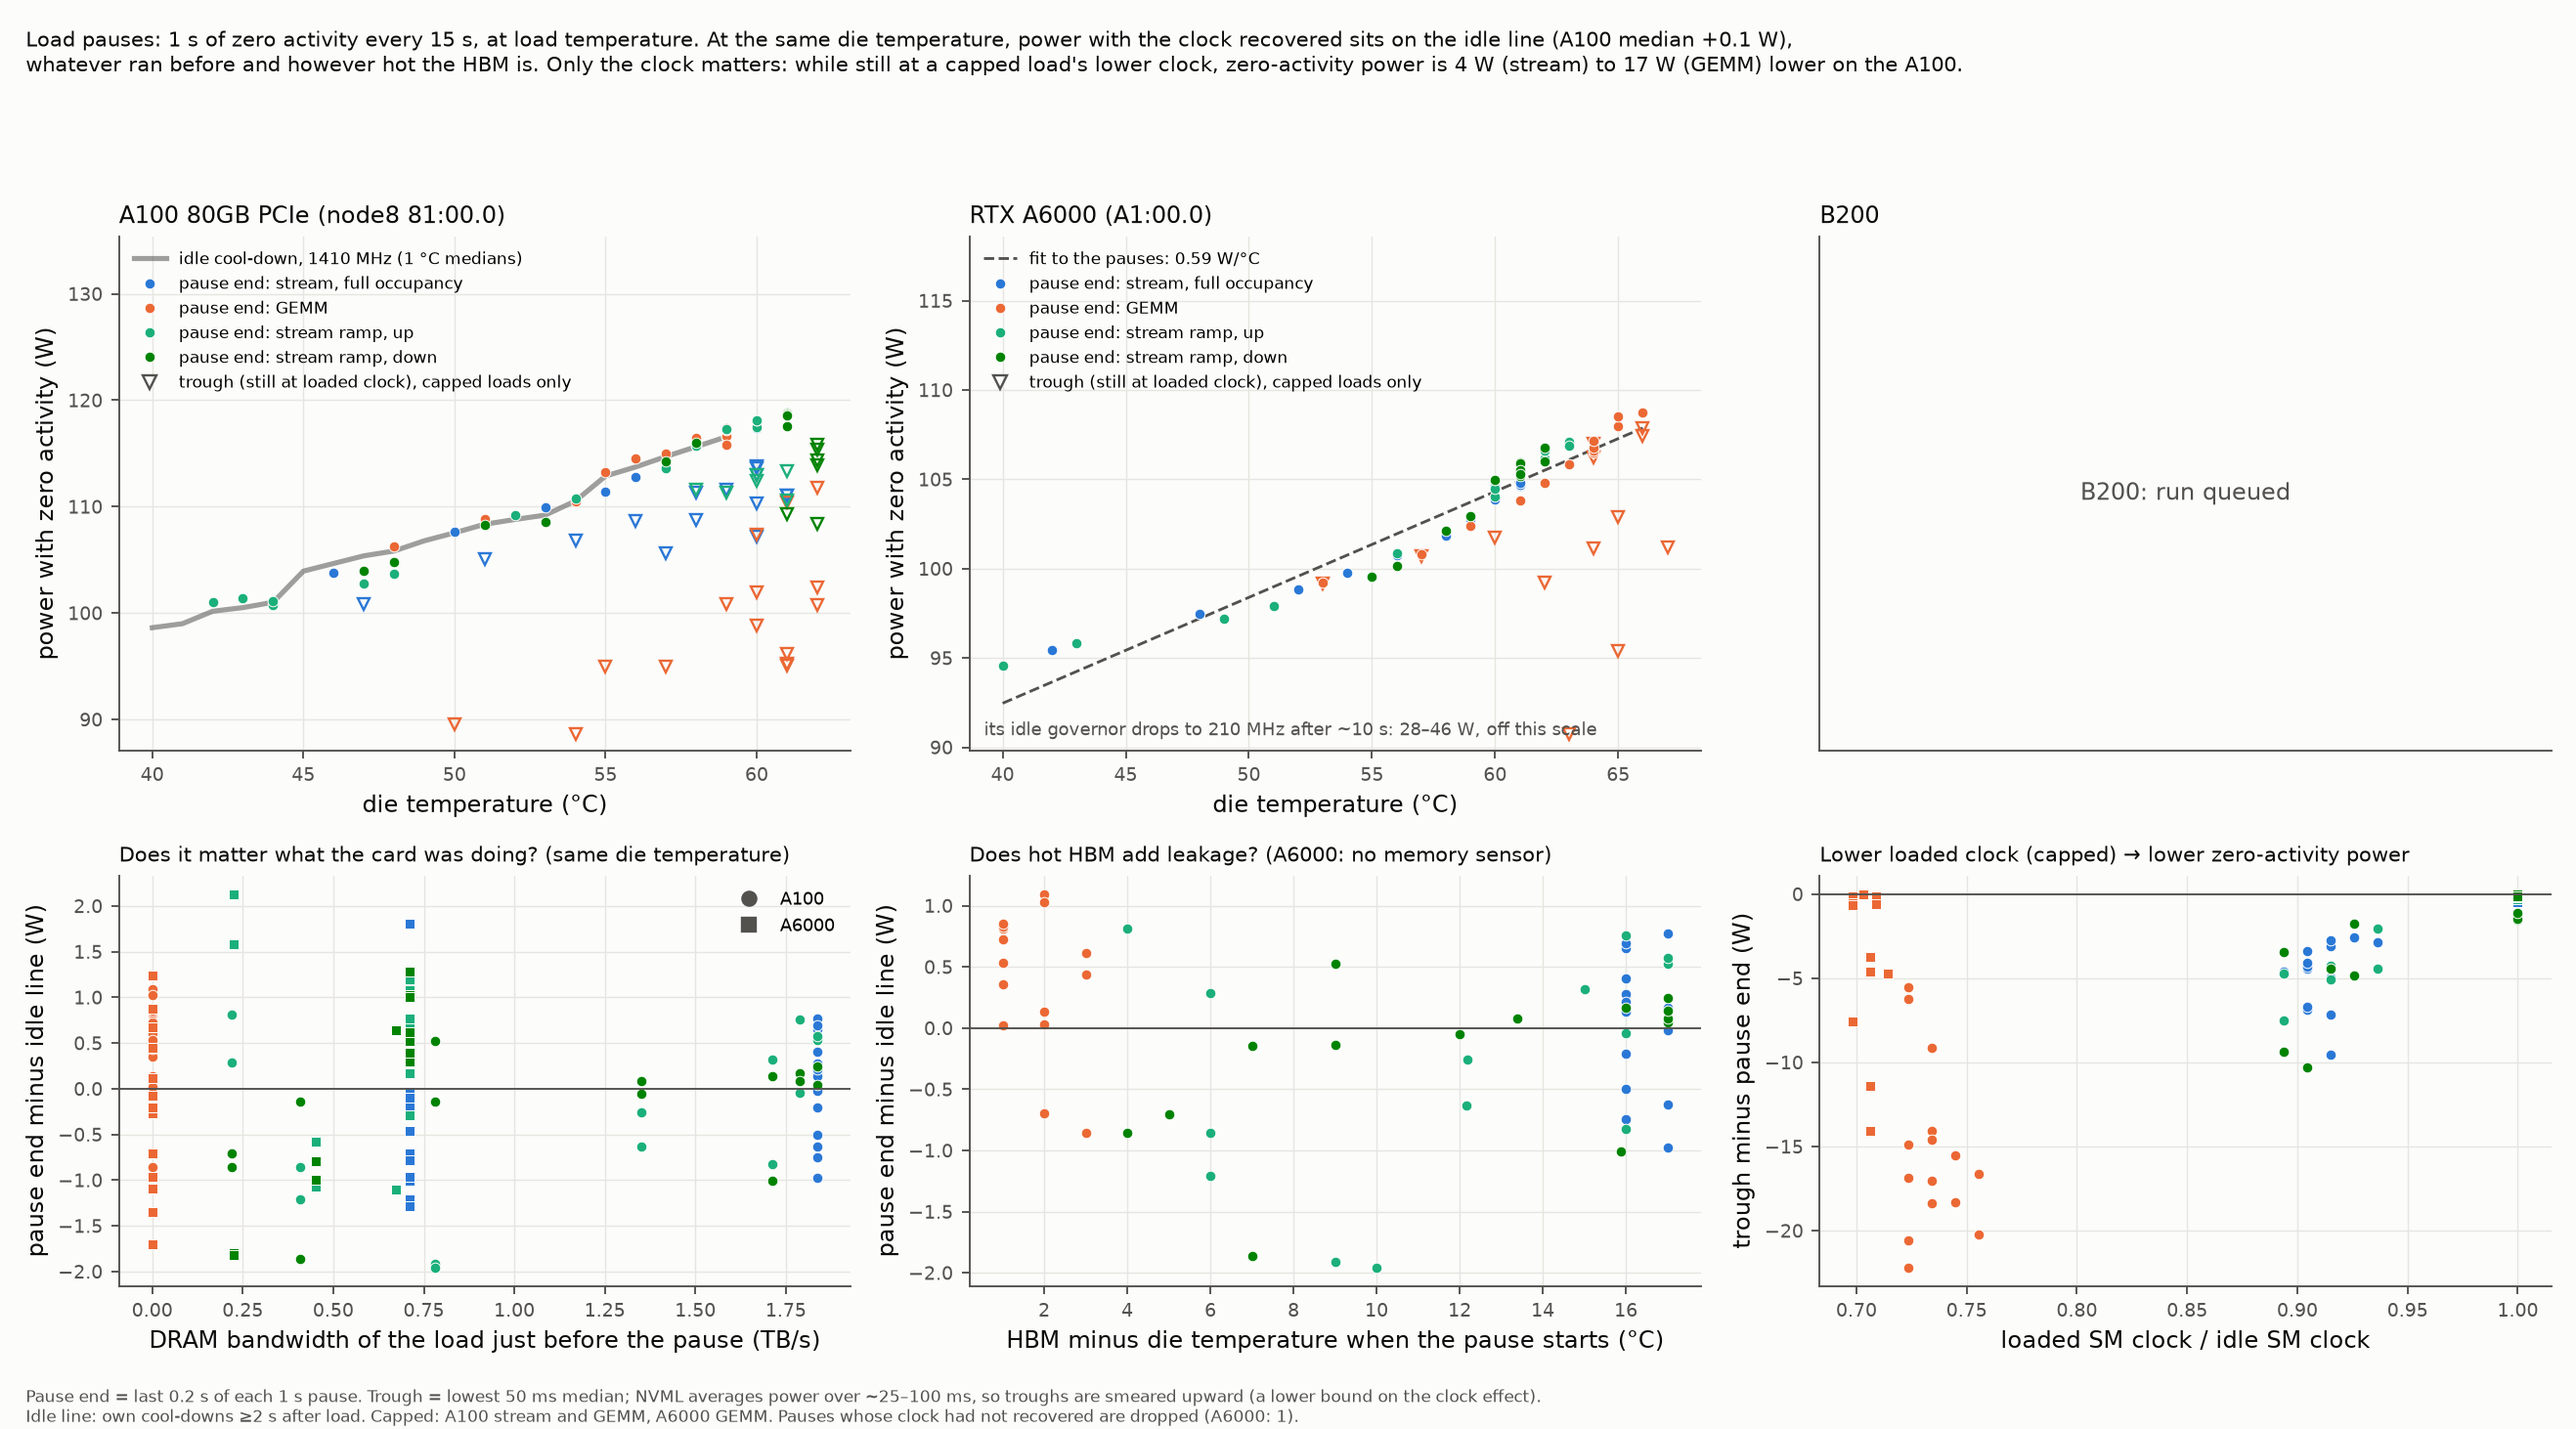
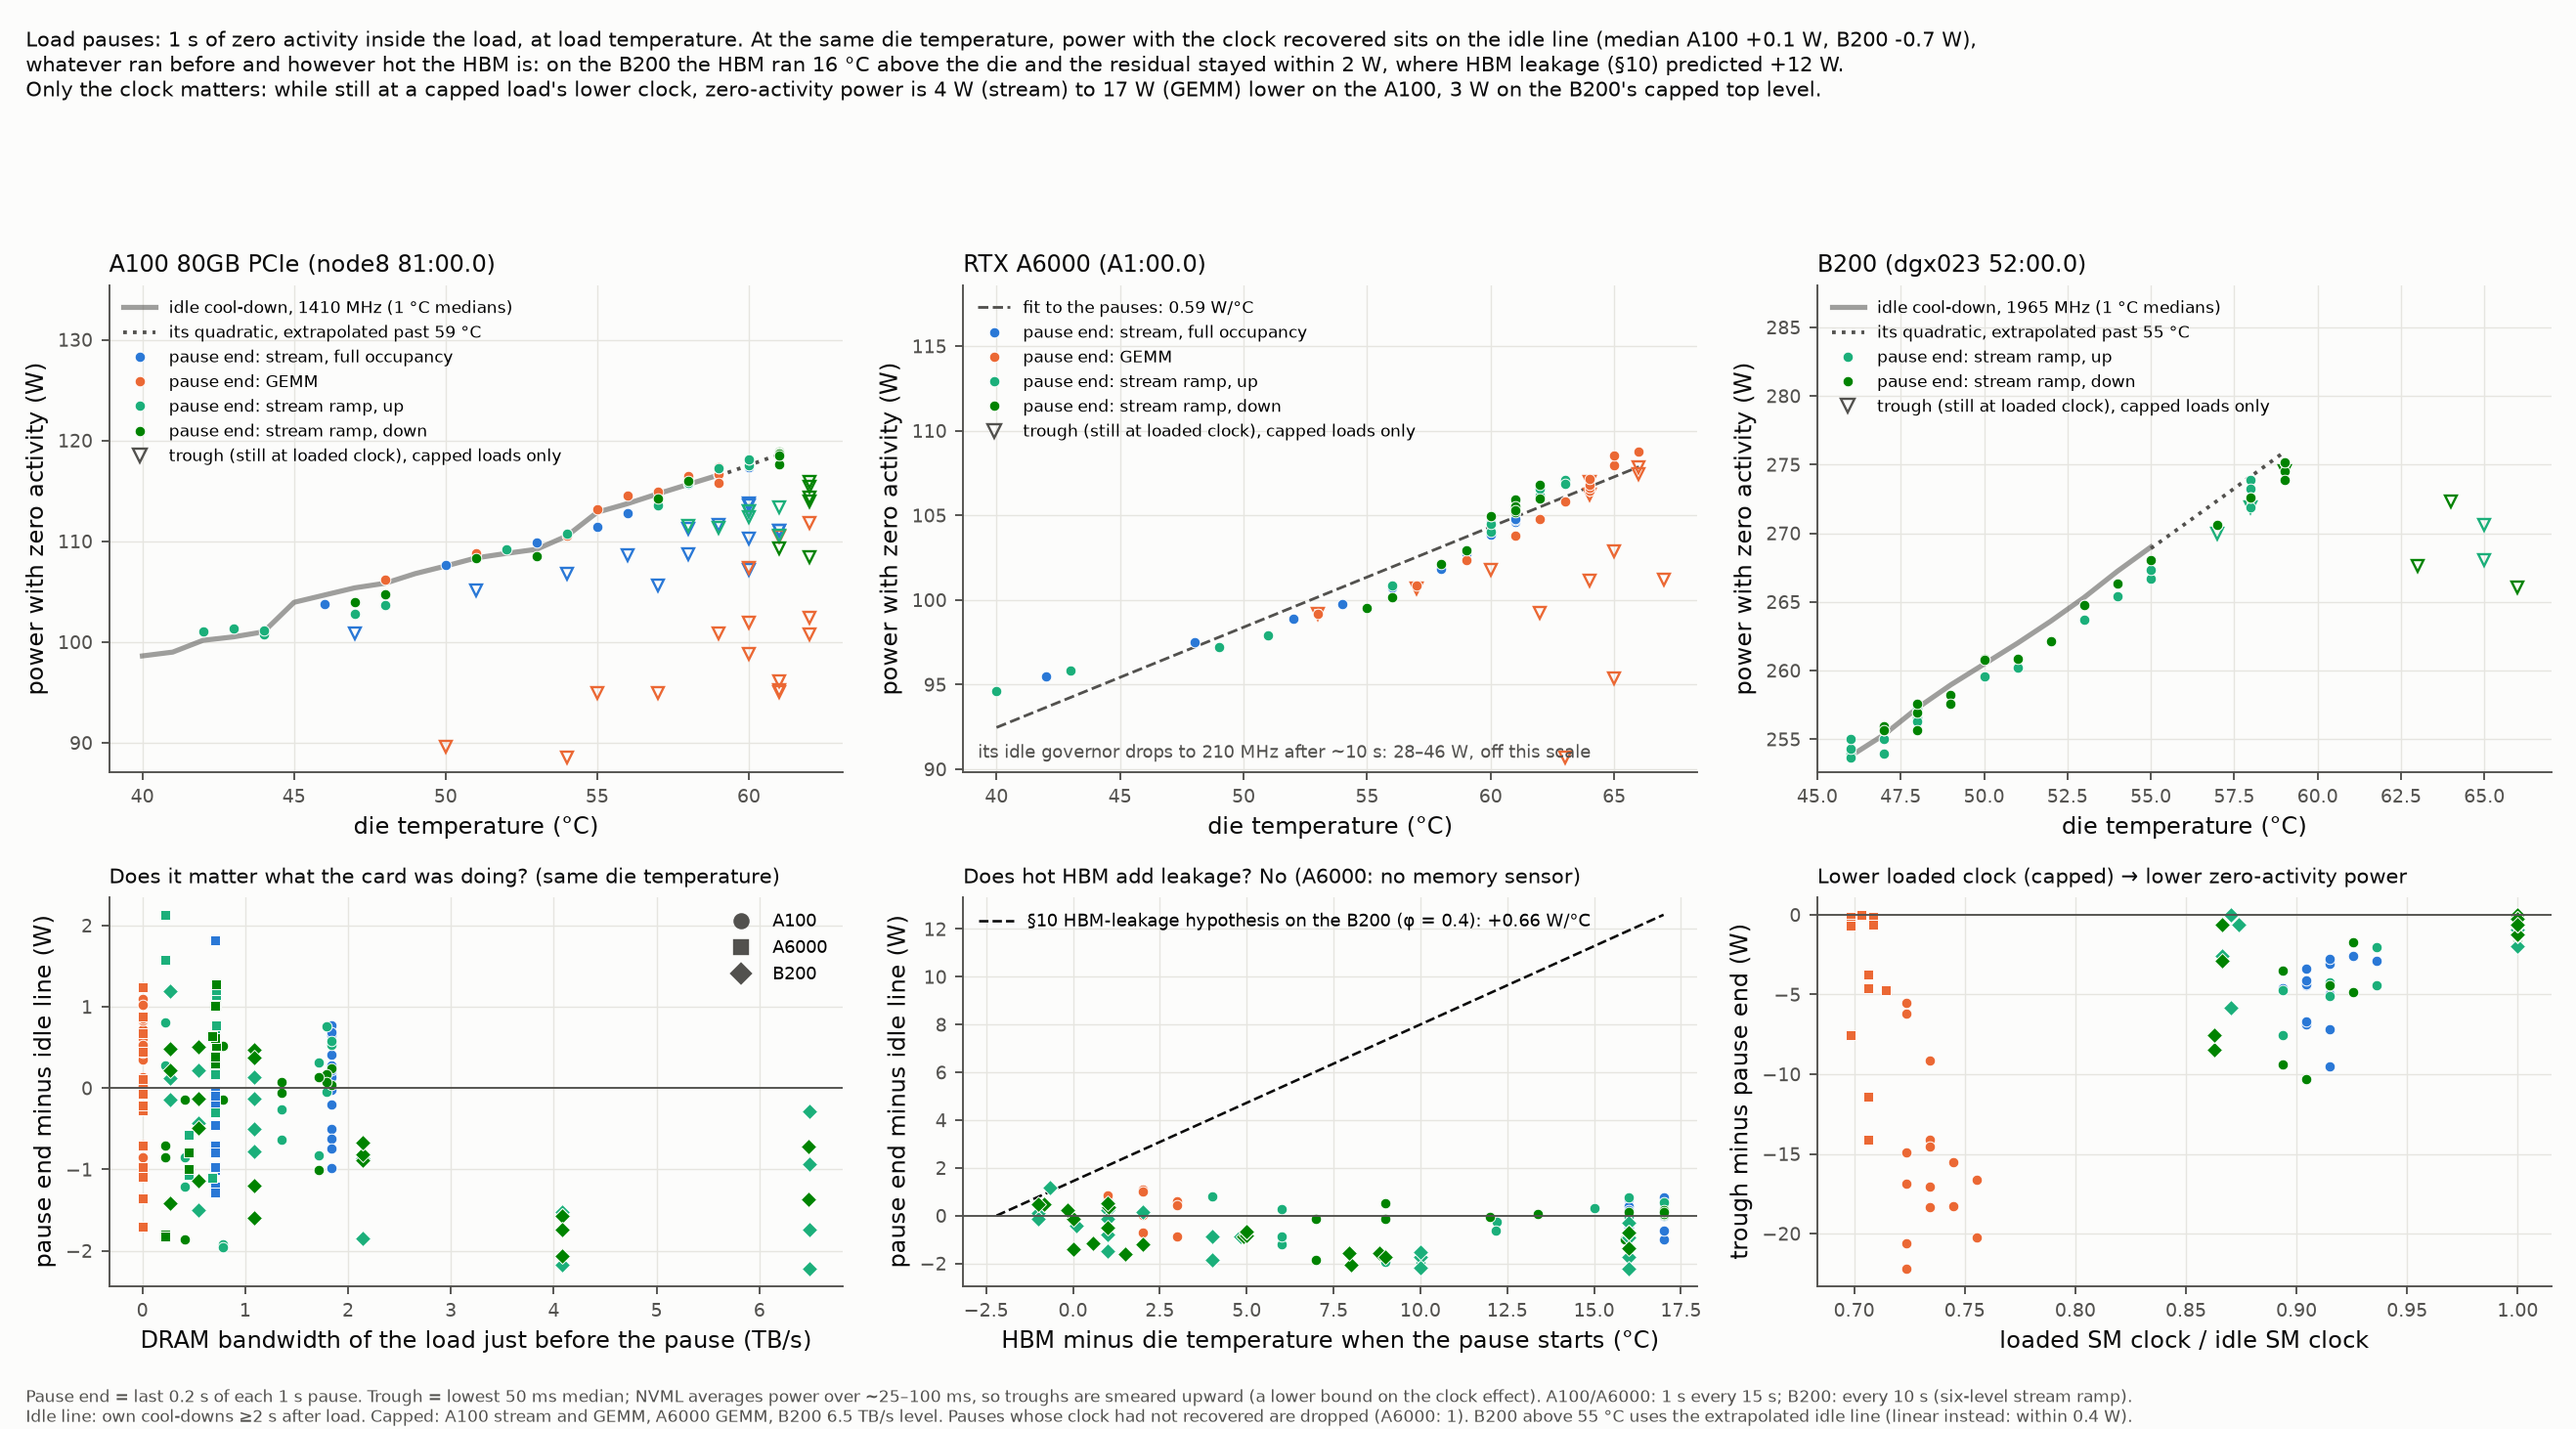
fig_pause: B200 column from thermal_B200_pulse; §12: HBM gap adds no static power (−0.08 W/°C vs +0.66 predicted by §10)
The B200 pause run lands in the cross-card pause figure. Pause end minus the card's own
cool-down idle line is median −0.7 W across a −1..+16 °C HBM−die gap; §10's φ = 0.4 would
put the top level 12 W above the line. Figure draws that prediction, extends the B200 idle
line past its 55 °C cool-down range (dotted), and adds the B200 to the headline and footer.

diff --git a/GPU_power/talk_figs/fig_pause.py b/GPU_power/talk_figs/fig_pause.py
@@ -1,7 +1,7 @@
 #!/usr/bin/env python3
 """Load-pause experiment (thermal_leakage.py pulse phases; THERMAL_IDLE.md §11).
 
-1 s pauses every 15 s inside long stream / GEMM loads and a stream ramp, sampled at 10 ms.
+1 s pauses every 15 s (B200: 10 s) inside long stream / GEMM loads and a stream ramp, sampled at 10 ms.
 Per pause (summary.json "pauses"):
   late   = last 0.2 s of the pause: zero activity, clock back at its idle level, die still hot
   trough = lowest 50 ms running median in the pause: zero activity while clock/voltage are
@@ -28,10 +28,10 @@ CAT = ["#2a78d6", "#eb6834", "#1baf7a", "#eda100", "#e87ba4", "#008300", "#6250d
 # (thermal dir, title); a missing dir leaves a placeholder panel
 RUNS = [("A100_pulse1", "A100 80GB PCIe (node8 81:00.0)"),
         ("A6000_pulse1", "RTX A6000 (A1:00.0)"),
-        ("B200_pulse1", "B200")]
+        ("B200_pulse", "B200 (dgx023 52:00.0)")]
 LOADS = [("pulse:stream", "stream, full occupancy", CAT[0]), ("pulse:gemm", "GEMM", CAT[1]),
          ("pulse_up", "stream ramp, up", CAT[2]), ("pulse_down", "stream ramp, down", CAT[5])]
-CARD_MK = {"A100_pulse1": "o", "A6000_pulse1": "s", "B200_pulse1": "D"}
+CARD_MK = {"A100_pulse1": "o", "A6000_pulse1": "s", "B200_pulse": "D"}
 
 
 def fnum(x):
@@ -153,6 +153,11 @@ def main():
         if r["ref_kind"].startswith("cool"):
             a.plot(r["bins"][:, 0], r["bins"][:, 1], "-", color=INK2, lw=2.2, alpha=0.55, zorder=1,
                    label=f"idle cool-down, {r['fidle']:.0f} MHz (1 °C medians)")
+            t_hi = max(x["t_late_c"] for x in r["pz"])
+            if t_hi > r["hi"] + 0.5:   # pauses run hotter than the cool-down reached: show the extrapolation
+                xs = np.linspace(r["hi"], t_hi, 10)
+                a.plot(xs, np.polyval(r["q"], xs), ":", color=INK2, lw=1.6, zorder=1,
+                       label=f"its quadratic, extrapolated past {r['hi']:.0f} °C")
         else:
             xs = np.linspace(r["lo"], r["hi"], 10)
             a.plot(xs, np.polyval(r["q"], xs), "--", color=INK2, lw=1.2, zorder=1,
@@ -199,9 +204,16 @@ def main():
             P = [x for x in r["pz"] if x["kind"] == k and x["mem_gap_c"] is not None]
             a.plot([x["mem_gap_c"] for x in P], [x["res_w"] for x in P], CARD_MK[tag], ms=4.5, color=col, mec="white", mew=0.4)
     a.axhline(0, color=INK2, lw=0.8)
+    # §10's hypothesis on the B200: a share phi of the leakage tracks HBM, not die, temperature, so the
+    # pause residual would rise phi*k per degree of HBM-die gap above the idle gap
+    PHI, K_B200, GAP_IDLE = 0.4, 1.64, -2.2
+    gx = np.array([GAP_IDLE, 17.0])
+    a.plot(gx, PHI * K_B200 * (gx - GAP_IDLE), "--", color=INK, lw=1.1, zorder=1,
+           label=f"§10 HBM-leakage hypothesis on the B200 (φ = {PHI}): +{PHI * K_B200:.2f} W/°C")
+    a.legend(frameon=False, fontsize=7.5, loc="upper left")
     a.set_xlabel("HBM minus die temperature when the pause starts (°C)")
     a.set_ylabel("pause end minus idle line (W)")
-    a.set_title("Does hot HBM add leakage? (A6000: no memory sensor)", loc="left", fontsize=9, color=INK)
+    a.set_title("Does hot HBM add leakage? No (A6000: no memory sensor)", loc="left", fontsize=9, color=INK)
 
     a = ax[1, 2]; style(a)
     for tag, r in data.items():
@@ -216,17 +228,21 @@ def main():
     a.set_ylabel("trough minus pause end (W)")
     a.set_title("Lower loaded clock (capped) → lower zero-activity power", loc="left", fontsize=9, color=INK)
 
-    A = js.get("A100_pulse1", {})
-    fig.suptitle("Load pauses: 1 s of zero activity every 15 s, at load temperature. At the same die temperature, power with the "
-                 f"clock recovered sits on the idle line (A100 median {A.get('res_median', 0):+.1f} W),\nwhatever ran before and however "
-                 "hot the HBM is. Only the clock matters: while still at a capped load's lower clock, zero-activity power is "
+    A = js.get("A100_pulse1", {}); B = js.get("B200_pulse", {})
+    fig.suptitle("Load pauses: 1 s of zero activity inside the load, at load temperature. At the same die temperature, power with the "
+                 f"clock recovered sits on the idle line (median A100 {A.get('res_median', 0):+.1f} W, B200 {B.get('res_median', 0):+.1f} W),\n"
+                 "whatever ran before and however hot the HBM is: on the B200 the HBM ran 16 °C above the die and the residual stayed within "
+                 f"2 W, where HBM leakage (§10) predicted +{0.4 * 1.64 * (16 + 2.2):.0f} W.\n"
+                 "Only the clock matters: while still at a capped load's lower clock, zero-activity power is "
                  f"{-A.get('pulse:stream_trough_gap_median', 0):.0f} W (stream) to {-A.get('pulse:gemm_trough_gap_median', 0):.0f} W "
-                 "(GEMM) lower on the A100.", x=0.01, ha="left", fontsize=9, color=INK)
+                 f"(GEMM) lower on the A100, {-B.get('trough_gap_capped', {}).get('median', 0):.0f} W on the B200's capped top level.",
+                 x=0.01, ha="left", fontsize=9, color=INK)
     fig.text(0.01, 0.005, "Pause end = last 0.2 s of each 1 s pause. Trough = lowest 50 ms median; NVML averages power over ~25–100 ms, "
-             "so troughs are smeared upward (a lower bound on the clock effect).\n"
-             "Idle line: own cool-downs ≥2 s after load. Capped: A100 stream and GEMM, A6000 GEMM. Pauses whose clock had not recovered are dropped (A6000: 1).",
+             "so troughs are smeared upward (a lower bound on the clock effect). A100/A6000: 1 s every 15 s; B200: every 10 s (six-level stream ramp).\n"
+             "Idle line: own cool-downs ≥2 s after load. Capped: A100 stream and GEMM, A6000 GEMM, B200 6.5 TB/s level. "
+             "Pauses whose clock had not recovered are dropped (A6000: 1). B200 above 55 °C uses the extrapolated idle line (linear instead: within 0.4 W).",
              fontsize=7, color=INK2)
-    fig.tight_layout(rect=(0, 0.035, 1, 0.93))
+    fig.tight_layout(rect=(0, 0.035, 1, 0.915))
     fig.savefig(os.path.join(HERE, "fig_pause.png"), dpi=170, facecolor=SURF)
     json.dump(js, open(os.path.join(HERE, "fig_pause.json"), "w"), indent=1)
     for t, v in js.items():

diff --git a/GPU_power/THERMAL_IDLE.md b/GPU_power/THERMAL_IDLE.md
@@ -591,6 +591,17 @@ coefficient: the bytes move through memory that is 18 °C hotter than the sensor
 against, so the +0.25 pJ/byte/°C above is per °C of **die** temperature and would be roughly
 half that per °C of actual HBM temperature.
 
+Read directly, as §11 does on the A100 (`talk_figs/fig_pause.png`, bottom middle;
+`fig_pause.json`): pause end minus this card's cool-down idle line at the same die temperature
+is median **−0.7 W** (10–90% −1.8..+0.5, n = 48), against an HBM−die gap of −1 to +16 °C when
+the pause starts. Its slope on the gap is **−0.08 W/°C**; φ = 0.4 would need **+0.66 W/°C**,
+i.e. **+12 W** at the top level, where every pause sits within 2.2 W of the line. The small
+negative drift (−0.2 W per TB/s) is within what the extrapolation of the idle line past 55 °C
+can produce (a linear instead of quadratic extension moves it by ≤0.4 W) and points the wrong way
+for any HBM term. Uncapped troughs match the pause end (median −0.6 W); the capped top level
+(1695–1717 MHz, 0.87 of idle clock) reads a median **2.7 W** below it, between the A100's
+uncapped and capped-stream cases.
+
 **Convexity, fourth card.** This card's cool-down gives k = 1.64 over 46–55 °C, extending the
 §10 table upward: about 1.0 at 33–37 °C, 1.13 at 37–41, 1.3–1.4 at 41–45, **1.6 at 46–55**.
 The curve keeps steepening, and this is why card D's k must not be compared with cards A–C's
